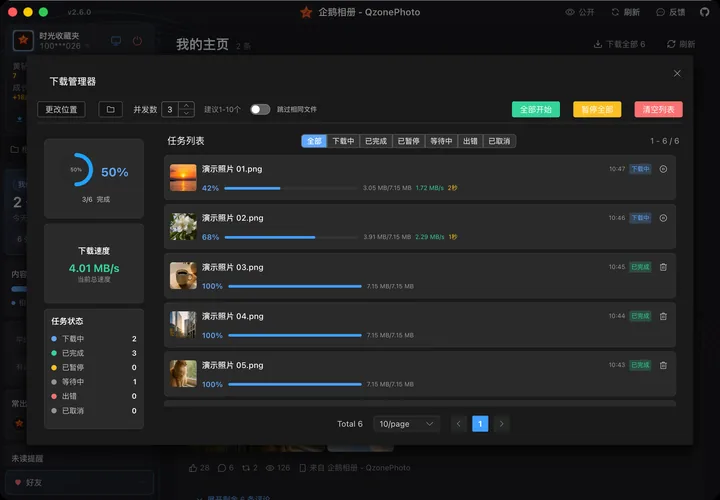
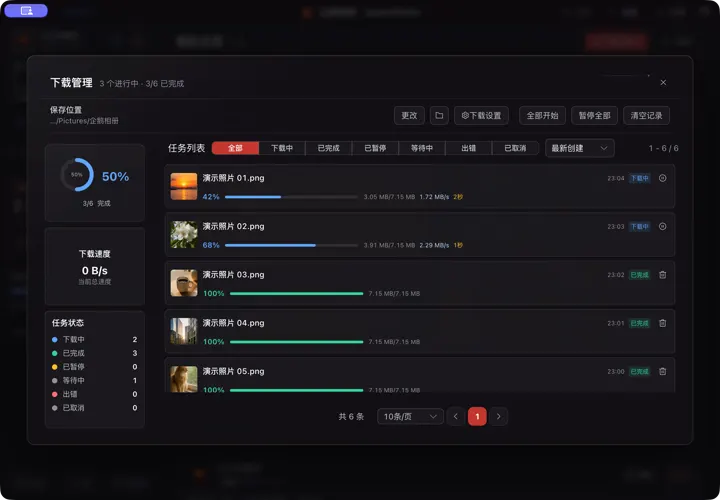
docs(release): 更新产品说明与演示截图

diff --git a/website/features/index.html b/website/features/index.html
@@ -16,6 +16,7 @@
     <link rel="icon" href="../assets/icons/app.png" />
     <meta name="application-name" content="企鹅相册 · QzonePhoto" />
     <meta name="theme-color" content="#fbfbfd" />
+    <script src="../holiday-theme.js?v=20260929-performance"></script>
     <meta property="og:type" content="website" />
     <meta property="og:locale" content="zh_CN" />
     <meta property="og:site_name" content="企鹅相册 · QzonePhoto" />
@@ -39,7 +40,7 @@
       name="twitter:image"
       content="https://qzonephoto.getgit.one/assets/screenshots/photos.png"
     />
-    <link rel="stylesheet" href="../styles.css?v=20260725-motion" />
+    <link rel="stylesheet" href="../styles.css?v=20260929-material" />
     <script type="application/ld+json">
       {
         "@context": "https://schema.org",
@@ -80,11 +81,12 @@
         type="button"
         aria-label="打开导航"
         aria-expanded="false"
+        aria-controls="site-navigation"
         data-nav-toggle
       >
         <span></span><span></span><span></span>
       </button>
-      <nav class="site-nav" aria-label="主导航" data-nav>
+      <nav id="site-navigation" class="site-nav" aria-label="主导航" data-nav>
         <a href="../">首页</a>
         <a aria-current="page" href="./">功能</a>
         <a href="../privacy/">使用帮助</a>
@@ -142,6 +144,7 @@
               width="1440"
               height="1000"
               loading="lazy"
+              decoding="async"
               alt="企鹅相册 · QzonePhoto 的 QQ 空间相册与原图下载界面"
             />
           </div>
@@ -155,6 +158,7 @@
             <ul class="check-list">
               <li>照片时间线与相册上下文</li>
               <li>视频时长、年份和排序筛选</li>
+              <li>视频默认静音悬停预览，不遮挡标题与主要操作</li>
               <li>当前列表一键加入下载队列</li>
             </ul>
           </div>
@@ -170,6 +174,7 @@
                 width="1440"
                 height="1000"
                 loading="lazy"
+                decoding="async"
                 alt="企鹅相册 · QzonePhoto 照片时间线界面"
               />
             </div>
@@ -184,6 +189,7 @@
                 width="1440"
                 height="1000"
                 loading="lazy"
+                decoding="async"
                 alt="企鹅相册 · QzonePhoto 视频筛选与下载界面"
               />
             </div>
@@ -212,6 +218,7 @@
               width="1440"
               height="1000"
               loading="lazy"
+              decoding="async"
               alt="企鹅相册 · QzonePhoto 的 QQ 空间动态时间线"
             />
           </div>
@@ -225,6 +232,7 @@
             <ul class="check-list">
               <li>下载队列状态追踪</li>
               <li>上传目标相册管理</li>
+              <li>批量开始、暂停、筛选与任务设置集中管理</li>
               <li>任务失败有明确提示</li>
             </ul>
           </div>
@@ -240,6 +248,7 @@
                 width="1440"
                 height="1000"
                 loading="lazy"
+                decoding="async"
                 alt="下载管理界面"
               />
             </div>
@@ -254,6 +263,7 @@
                 width="1440"
                 height="1000"
                 loading="lazy"
+                decoding="async"
                 alt="上传管理界面"
               />
             </div>
@@ -279,6 +289,9 @@
           </article>
           <article>
             <strong>版本更新</strong><span>发现新版本时会给出提示，按提示下载即可。</span>
+          </article>
+          <article>
+            <strong>节日主题</strong><span>国庆、元旦与春节按时间启用，并与官网保持一致。</span>
           </article>
         </div>
       </section>
@@ -311,6 +324,6 @@
     </footer>
 
     <script src="../download-core.js?v=20260725-motion" defer></script>
-    <script src="../main.js?v=20260725-motion" defer></script>
+    <script src="../main.js?v=20260929-usability" defer></script>
   </body>
 </html>

diff --git a/README.md b/README.md
@@ -63,8 +63,8 @@
     <td><img src="screenshots/upload.png" alt="上传管理" /></td>
   </tr>
   <tr>
-    <td align="center">下载管理：并发数、跳过重复、任务状态分类筛选</td>
-    <td align="center">上传管理：相册筛选、状态筛选、整体进度和实时速度</td>
+    <td align="center">下载管理：总体进度、任务筛选、批量控制与下载设置</td>
+    <td align="center">上传管理：相册 / 状态筛选、实时进度与失败处理</td>
   </tr>
 </table>
 
@@ -98,7 +98,9 @@
 ### 🎨 浏览体验
 
 - **暗色主题**：背景层级 / 边框 / 文本灰阶 / 主题色全部走 CSS 变量统一管理
+- **节日主题**：国庆、元旦、春节按时间窗口自动启用，桌面端与官网使用同一套克制的中国风视觉规范
 - **隐私模式**：右上角一键保护敏感内容，媒体、头像、昵称、正文和评论的遮罩风格统一
+- **视频悬停预览**：照片、视频和动态里的视频均支持默认静音预览，不遮挡标题与主要操作
 - **动态时间线**：我的主页、好友动态、特别关心、与我相关、那年今日、我的收藏统一用同一套卡片和评论层级
 - **富文本适配**：说说里的 `@`、QQ 表情、评论回复层级会按更接近官方页面的方式渲染
 - **内置官方页**：点击头像 / 昵称 / QQ 空间链接会在应用内打开，并复用应用登录态，不依赖外部浏览器是否已登录
@@ -134,7 +136,7 @@ pnpm dev          # 开发模式（热重载）
 pnpm build:mac    # / build:win / build:linux 打包
 ```
 
-> 需要 Node.js ≥ 18 + pnpm。
+> 需要 Node.js ≥ 20.19 + pnpm。
 
 ## 📖 使用指南
 
@@ -188,6 +190,7 @@ pnpm build:mac    # / build:win / build:linux 打包
 1. 降低并发数到 1–2（下载管理 → 并发数）
 2. 检查网络稳定性，避开高峰期
 3. 关闭其他占网络的程序
+
 </details>
 
 <details>
@@ -196,6 +199,7 @@ pnpm build:mac    # / build:win / build:linux 打包
 1. 确认 QQ 在手机上能正常用
 2. 重新扫码或重启应用
 3. 本地登录失败时确认电脑端 QQ 已登录
+
 </details>
 
 <details>
@@ -203,6 +207,7 @@ pnpm build:mac    # / build:win / build:linux 打包
 
 - **照片**：JPG / PNG / GIF / BMP / WEBP
 - **视频**：MP4 / MOV / AVI（QQ 空间转码后通常为 MP4）
+
 </details>
 
 <details>
